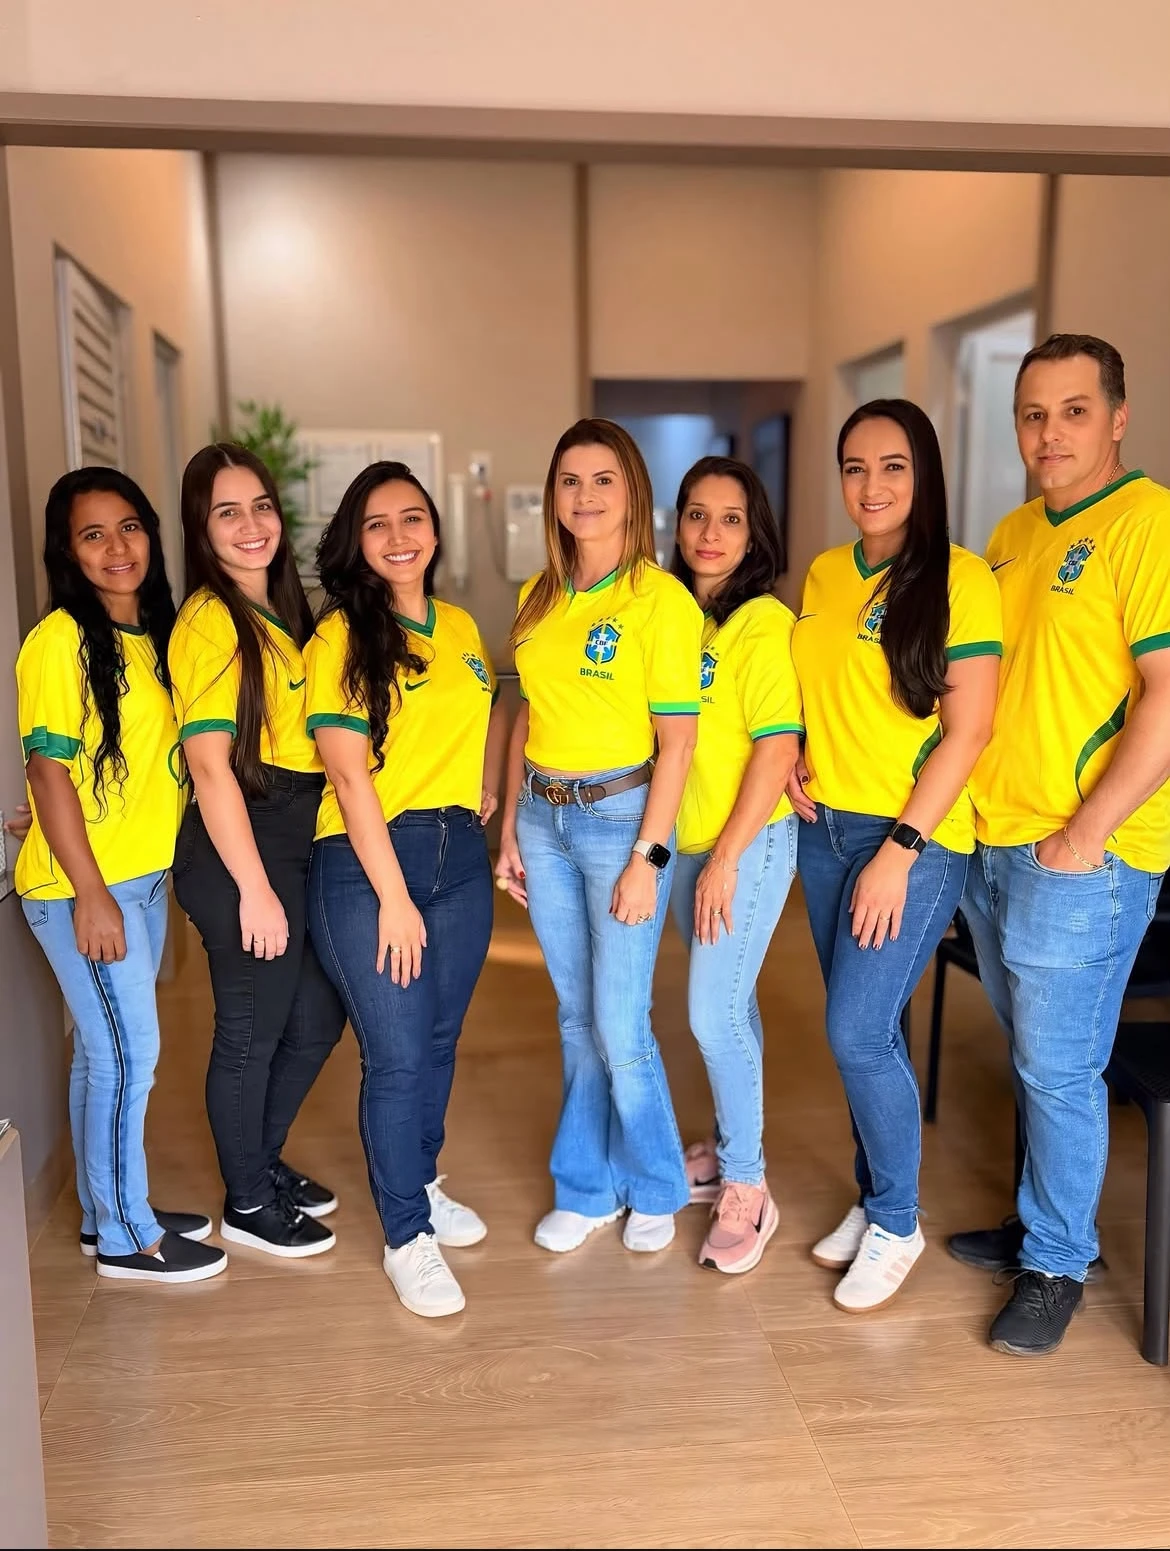
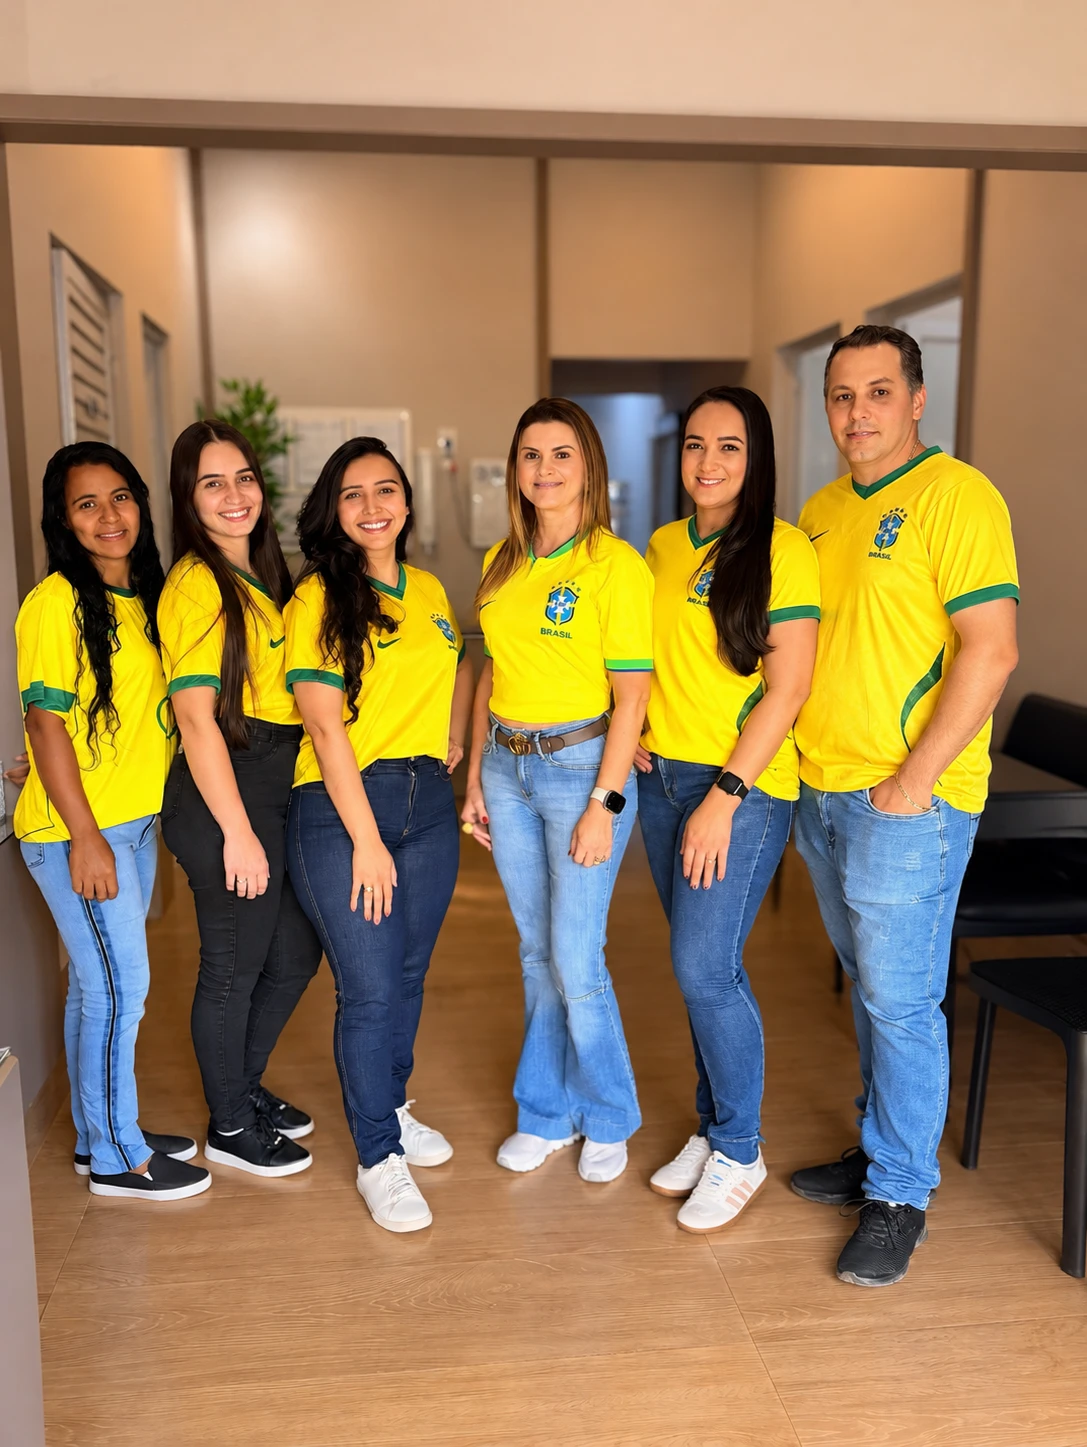
Fotos novas da fachada e da equipe

diff --git a/css/style.css b/css/style.css
@@ -99,7 +99,7 @@ a:focus-visible,button:focus-visible,input:focus-visible{outline:3px solid var(-
 .tilt-wrap{position:relative;padding-bottom:40px;perspective:1400px}
 .tilt-card{border-radius:28px;background:#fff;padding:10px;box-shadow:0 30px 60px rgba(35,24,21,.28),0 8px 18px rgba(35,24,21,.12);transform:rotateY(-9deg) rotateX(4deg);transform-style:preserve-3d;transition:transform .6s cubic-bezier(.2,.7,.2,1)}
 .tilt-wrap:hover .tilt-card{transform:rotateY(0) rotateX(0)}
-.hero-photo{width:100%;height:clamp(240px,36vw,400px);object-fit:cover;object-position:center 60%;border-radius:20px}
+.hero-photo{width:100%;height:clamp(240px,36vw,400px);object-fit:cover;object-position:center 28%;border-radius:20px}
 .floating-card{position:absolute;left:-12px;bottom:0;right:24%;min-width:240px;background:#fff;border-radius:20px;padding:16px 18px;display:flex;align-items:center;gap:14px;border:1px solid #EBDDC2;box-shadow:0 20px 40px rgba(35,24,21,.18)}
 .floating-card strong{display:block;font-size:16px}
 .floating-card span{font-size:14px;color:var(--muted)}
@@ -220,7 +220,7 @@ legend.q{margin-bottom:10px}
 .band-dark .btn-white{border:0;box-shadow:0 6px 0 #B9A894}
 .map-card{position:relative;overflow:hidden;border-radius:24px;min-height:280px;display:flex;flex-direction:column;justify-content:flex-end;color:#fff;text-decoration:none;box-shadow:0 6px 0 #120C09,0 24px 48px rgba(0,0,0,.4)}
 .map-card:hover{color:#fff}
-.map-card img{position:absolute;inset:0;width:100%;height:100%;object-fit:cover;object-position:center 60%}
+.map-card img{position:absolute;inset:0;width:100%;height:100%;object-fit:cover;object-position:center 25%}
 .map-bar{position:relative;background:rgba(26,17,13,.82);padding:20px 22px;display:flex;align-items:center;gap:14px}
 .map-bar strong{display:block;font-size:18px}
 .map-bar small{font-size:14px;color:#E8DCCF}

diff --git a/index.html b/index.html
@@ -168,7 +168,7 @@
       <div class="card card3d"><span class="icon-tile"><svg width="26" height="26" viewBox="0 0 24 24" fill="none" stroke="#fff" stroke-width="2" stroke-linecap="round" stroke-linejoin="round" aria-hidden="true"><path d="M21 11.5a8.4 8.4 0 0 1-12.4 7.4L3 21l2.1-5.4A8.4 8.4 0 1 1 21 11.5z"/></svg></span><h3>Atendimento rápido</h3><p>Tire dúvidas e agende direto pelo WhatsApp, sem fila no telefone.</p></div>
     </div>
     <figure class="team-photo">
-      <img src="assets/equipe.webp" alt="Equipe do Laboratório Montividiu" width="1170" height="1551" loading="lazy">
+      <img src="assets/equipe.webp" alt="Equipe do Laboratório Montividiu" width="1087" height="1447" loading="lazy">
       <figcaption>A equipe que vai atender você.</figcaption>
     </figure>
   </section>
